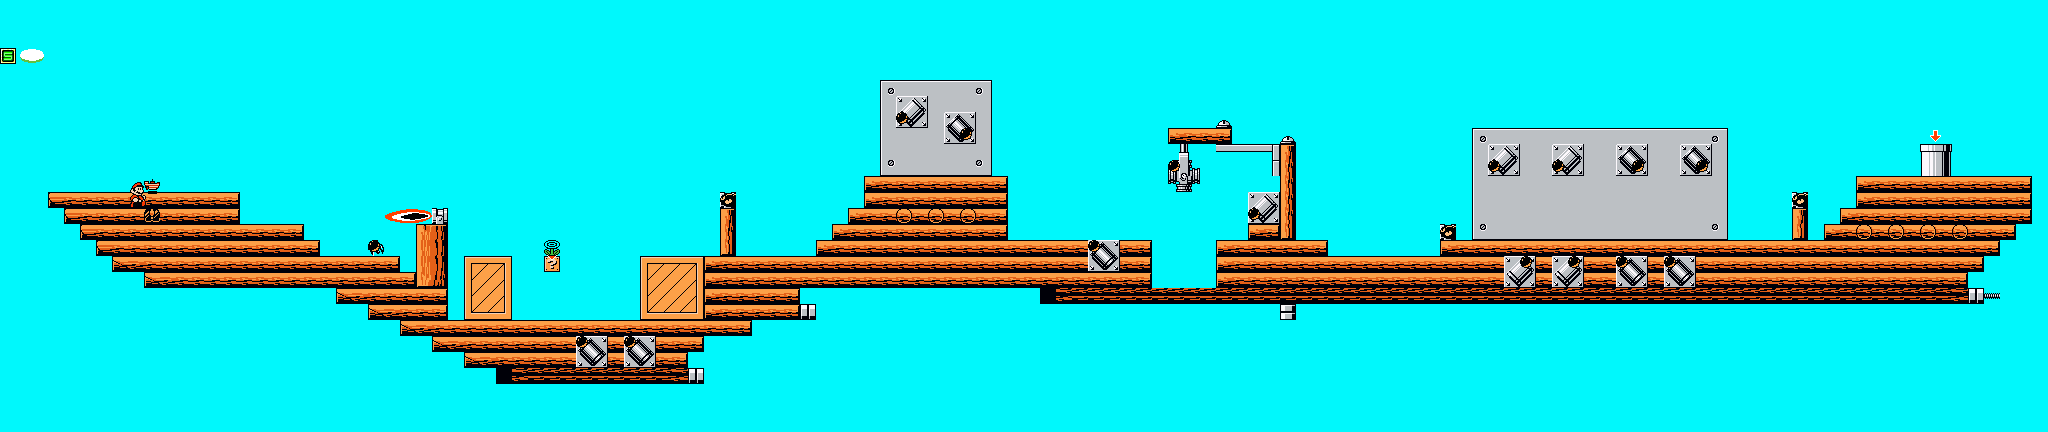
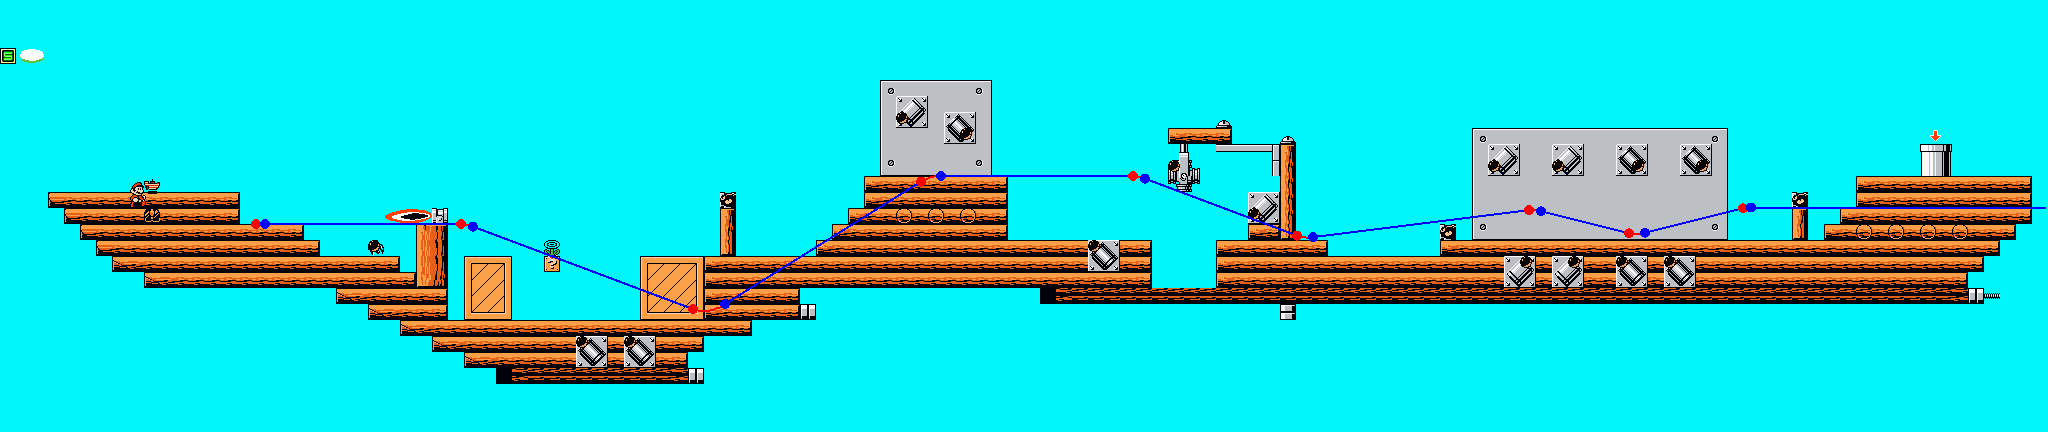
minor autoscroll cleanup

diff --git a/foundry/gui/AutoScrollDrawer.py b/foundry/gui/AutoScrollDrawer.py
@@ -17,6 +17,14 @@ AScroll_MovementLoopTicks = 0x13B70
 AScroll_HorizontalInitMove = 0x01ECD
 
 
+HORIZONTAL_SCROLL_0 = 0
+HORIZONTAL_SCROLL_1 = 1
+UP_RIGHT_DIAG_SCROLL = 2
+SPIKE_CEILING_SCROLL = 3
+UP_TIL_DOOR_SCROLL = 4
+WATER_LEVEL_SCROLL = 5
+
+
 class AutoScrollDrawer:
     def __init__(self, auto_scroll_row: int, level: Level):
         self.auto_scroll_row = auto_scroll_row
@@ -50,7 +58,16 @@ class AutoScrollDrawer:
         auto_scroll_type_index = self.auto_scroll_row >> 4
         auto_scroll_routine_index = self.auto_scroll_row & 0b0001_1111
 
-        if auto_scroll_type_index not in [0, 1]:
+        if auto_scroll_type_index in [
+            SPIKE_CEILING_SCROLL,
+            UP_TIL_DOOR_SCROLL,
+            WATER_LEVEL_SCROLL,
+            UP_RIGHT_DIAG_SCROLL,
+        ]:
+            # not visualized
+            return
+        elif auto_scroll_type_index not in [HORIZONTAL_SCROLL_0, HORIZONTAL_SCROLL_1]:
+            # illegal value, those appear in the vanilla ROM, though; so error out
             return
 
         first_movement_command_index = (
@@ -70,10 +87,7 @@ class AutoScrollDrawer:
 
             self._execute_movement_command(painter, movement_command, movement_repeat)
 
-        painter = None
-
     def _execute_movement_command(self, painter: QPainter, command: int, repeat: int):
-        assert painter is not None
         h_updates_per_tick = 4  # got those by reading the auto scroll routine
         v_updates_per_tick = 2
 
